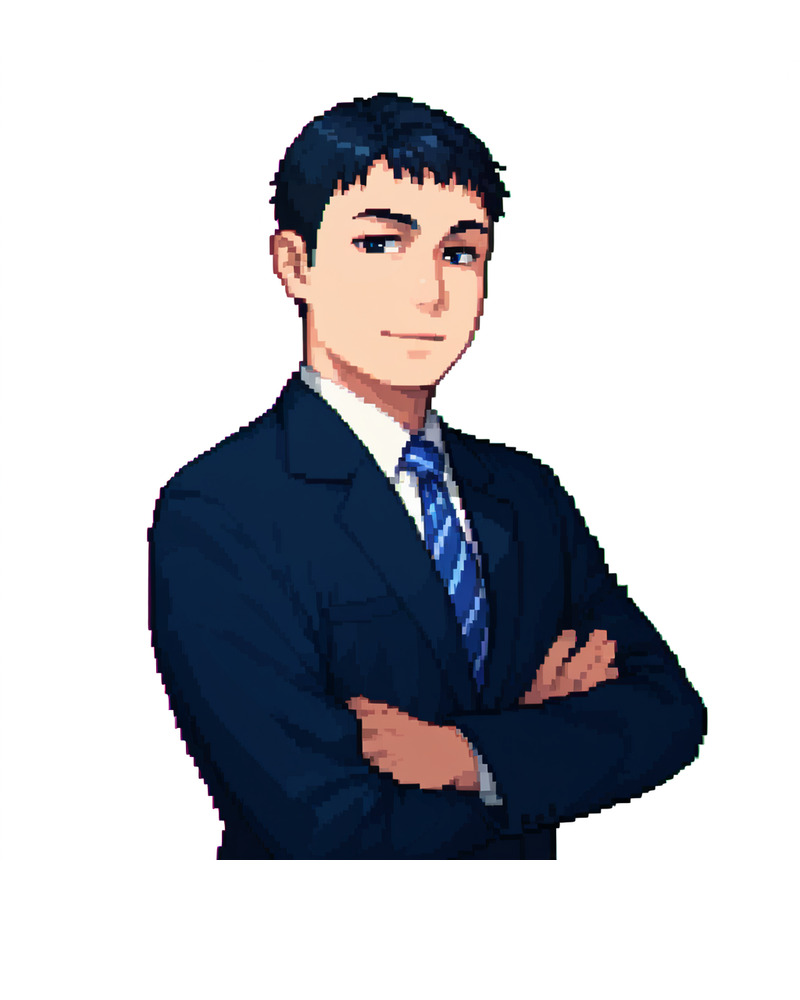
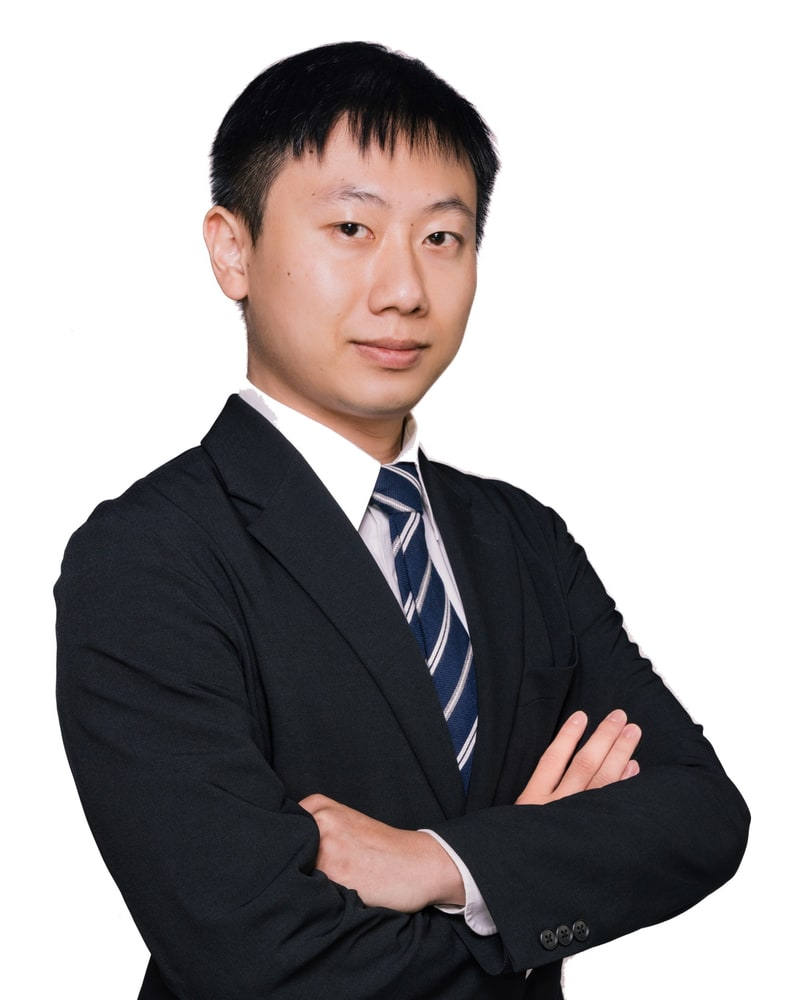
content: replace founder portraits with real photos

diff --git a/src/content/team/lin-chung-yen/index.md b/src/content/team/lin-chung-yen/index.md
@@ -11,7 +11,7 @@ summary: "十三年 3D 與數位影像資歷，網路上以「粽子」「漫步
 seoTitle: "林仲彥（粽子x漫步深淵）｜共同創辦人・導演"
 description: "林仲彥是幻五娛樂共同創辦人與導演。3D 與數位影像出身，以 3D 動態預演驅動 AI 生成，《粽乩：豬母夜哭》入圍 AI London Film Festival，並為金魚短劇製作兩部各 30 集的 AI 短劇。"
 portrait: "./portrait.jpg"
-portraitAlt: "林仲彥的頻道頭像：Q 版鎧甲武士單膝蹲踞、背負長劍並披著藍色披風，身旁一隻戴紅領巾的黃狗仰頭長嚎"
+portraitAlt: "林仲彥的黑白形象照：戴黑框眼鏡，白襯衫搭領結與吊帶，側臉微笑"
 specialties: ["導演", "3D 動態預演", "平台短劇", "商業廣告", "AI 廣告課程"]
 numbers:
   - value: "13"
@@ -53,7 +53,7 @@ sameAs:
   threads: "https://www.threads.com/@atorias_ai"
   website: "https://portaly.cc/fantasyyen55"
   directory: "https://hallucination28.com/creator/lin-chung-yen/"
-updatedAt: "2026-10-28"
+updatedAt: "2026-11-02"
 ---
 
 ## 把 3D 動態餵給 AI

diff --git a/README.md b/README.md
@@ -264,7 +264,7 @@ order: 7                       # 精選排序，1 是大卡
 ## 上線前要補的
 
 - [ ] 統一編號（`COMPANY.taxId`）
-- [ ] 兩位創辦人的真人照片（目前是圖鑑用的頭像）
+- [x] 兩位創辦人的真人照片
 - [ ] 服務頁常見問題的措辭確認（著作權、肖像授權那幾題建議請律師看過）
 - [ ] 林仲彥確認自己的介紹與時間軸
 - [ ] 更名核准後：`COMPANY.legalName` 改成新名、`renamePending` 改成 `false`
